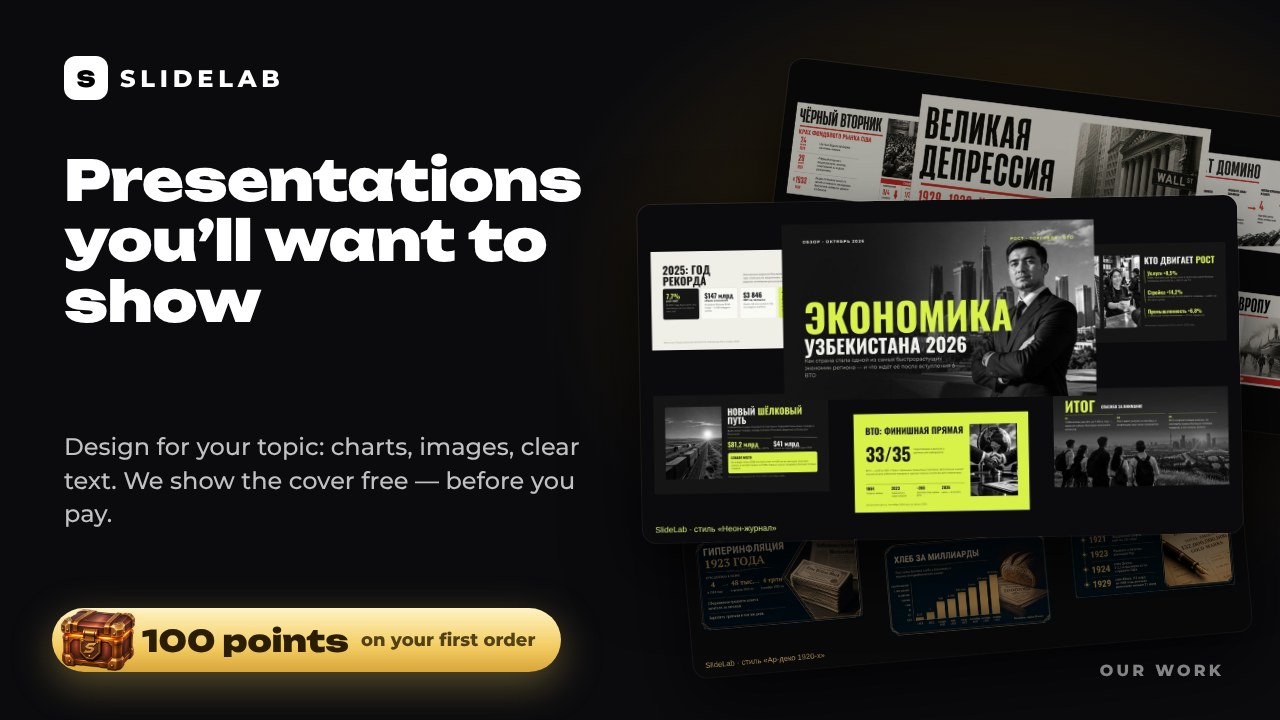
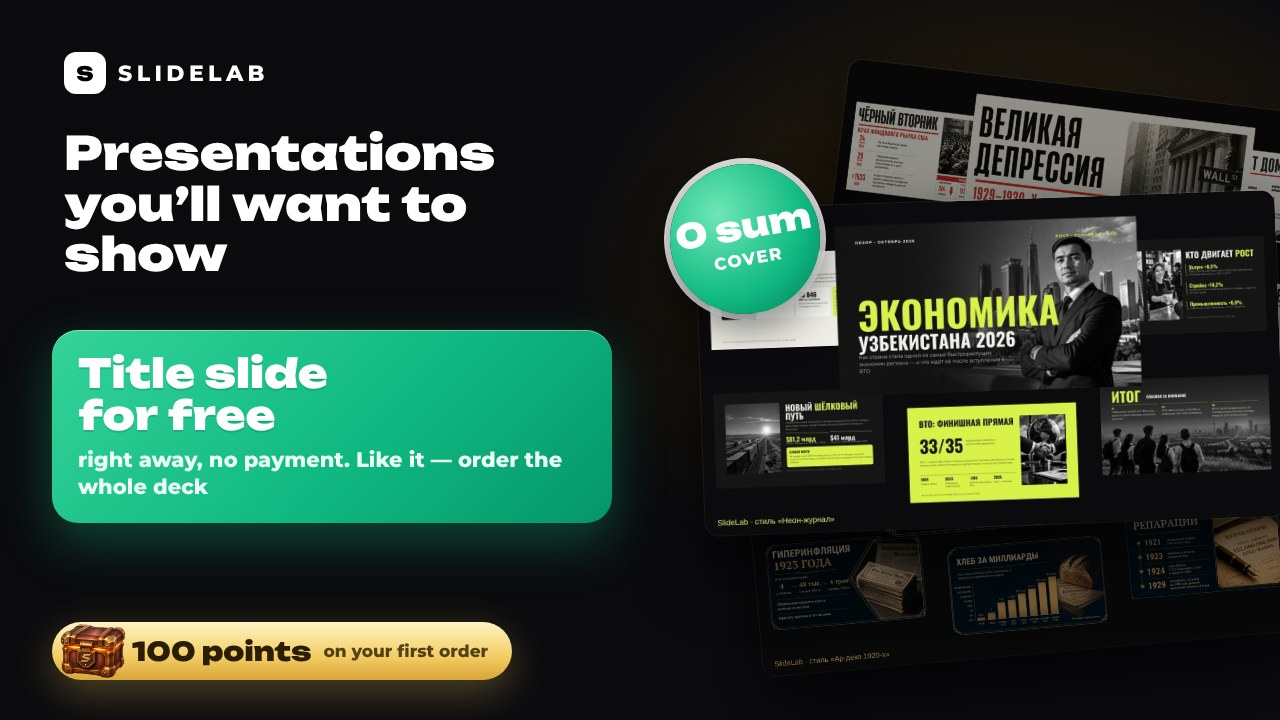
Приглашение: главное — бесплатный титульный слайд без оплаты
- карточка: крупный блок «Титульный слайд бесплатно — сразу и без оплаты» и наклейка «0 сум · обложка»
- подпись: первым пунктом бесплатный титульный слайд, затем цена и кейс-подарок

Claude-Session: https://claude.ai/code/session_01XiGaY2qDxw4V5KPgXudHjw

diff --git a/webapp/src/lib/i18n.ts b/webapp/src/lib/i18n.ts
@@ -343,7 +343,7 @@ const ru = {
   ref_ms_coupon: "{n} · презентация",
   ref_next_coupon: "До бесплатной презентации осталось друзей: {n}",
   ref_in_chat: "Карточка-приглашение в чате с ботом — перешлите её другу",
-  ref_share_text: "Заказываю презентации в SlideLab — дизайн под тему, обложку показывают бесплатно до оплаты. По моей ссылке тебе {n} баллов к первому заказу 🎁",
+  ref_share_text: "SlideLab делает презентации под твою тему — титульный слайд бесплатно и без оплаты. По моей ссылке тебе {n} баллов и кейс-подарок 🎁",
   ref_goals: "Бонусы за друзей",
   ref_next: "До бонуса +{pts} баллов осталось друзей: {n}",
   ref_all_goals: "Все бонусы собраны — дальше по +100 баллов за каждого друга",
@@ -796,7 +796,7 @@ const uz: Dict = {
   ref_ms_coupon: "{n} · taqdimot",
   ref_next_coupon: "Bepul taqdimotgacha qolgan do‘stlar: {n}",
   ref_in_chat: "Taklif kartasi bot chatida — uni do‘stingizga yuboring",
-  ref_share_text: "SlideLab’da taqdimot qildiraman — havolam orqali birinchi xaridga {n} ball, keysga yetadi 🎁",
+  ref_share_text: "SlideLab mavzuingizga mos taqdimot qiladi — titul slayd bepul va to‘lovsiz. Havolam orqali {n} ball va sovg‘a-keys 🎁",
   ref_goals: "Do‘stlar uchun bonuslar",
   ref_next: "+{pts} ball bonusigacha qolgan do‘stlar: {n}",
   ref_all_goals: "Barcha bonuslar olindi — har bir do‘st uchun +100",
@@ -1246,7 +1246,7 @@ const en: Dict = {
   ref_ms_coupon: "{n} · presentation",
   ref_next_coupon: "Friends left until a free presentation: {n}",
   ref_in_chat: "The invite card is in your chat with the bot — forward it to a friend",
-  ref_share_text: "I get my presentations at SlideLab — with my link you get {n} points on your first purchase, enough for a case 🎁",
+  ref_share_text: "SlideLab makes presentations for your topic — the title slide is free, no payment. With my link you get {n} points and a gift case 🎁",
   ref_goals: "Friend bonuses",
   ref_next: "Friends left until the +{pts} bonus: {n}",
   ref_all_goals: "All bonuses collected — +100 for every new friend",

diff --git a/src/slidelab/core/i18n/ru.py b/src/slidelab/core/i18n/ru.py
@@ -69,7 +69,7 @@ TEXTS: dict[str, str] = {
     "gift_err_revoked": "Этот подарок отменили.",
     "gift_err_self": "Это ваш подарок 🙂 Отправьте ссылку другу — пусть он откроет её.",
     "gift_err_missing": "Подарок не найден — проверьте ссылку.",
-    "invite_card": "🎁 <b>{name} дарит тебе {n} баллов в SlideLab</b>\n\nДелаем презентации под твою тему — с графиками, картинками и понятным текстом, а не шаблон.\nОбложку покажем бесплатно: платишь, только если понравился стиль. Первая презентация — от {price} сум.\n\nБаллы за первый заказ сразу открывают кейс: внутри скидки и бесплатные презентации.",
+    "invite_card": "🎁 <b>{name} дарит тебе {n} баллов в SlideLab</b>\n\n✅ <b>Титульный слайд — бесплатно</b>, сразу и без оплаты: пришли тему и посмотри стиль\n✅ Понравится — закажешь всю презентацию, первая от {price} сум\n✅ Дизайн под твою тему: графики, картинки, понятный текст — не шаблон\n\nА ещё тебя ждёт кейс-подарок: внутри может оказаться бесплатная презентация.",
     "invite_forward": "☝ Перешлите эту карточку другу или в чат группы. Когда друг оплатит первый заказ — вам +100 баллов.",
     "btn_claim_invite": "🎁 Забрать подарок",
     "btn_open_welcome": "🎁 Открыть подарок",

diff --git a/src/slidelab/core/i18n/uz.py b/src/slidelab/core/i18n/uz.py
@@ -64,7 +64,7 @@ TEXTS: dict[str, str] = {
     "gift_err_revoked": "Bu sovg‘a bekor qilingan.",
     "gift_err_self": "Bu sizning sovg‘angiz 🙂 Havolani do‘stingizga yuboring.",
     "gift_err_missing": "Sovg‘a topilmadi — havolani tekshiring.",
-    "invite_card": "🎁 <b>{name} sizga SlideLab’da {n} ball sovg‘a qiladi</b>\n\nMavzuingizga mos taqdimotlar — grafiklar, rasmlar va tushunarli matn bilan, shablon emas.\nMuqovani bepul ko‘rsatamiz: uslub yoqsagina to‘laysiz. Birinchi taqdimot — {price} so‘mdan.\n\nBirinchi buyurtma ballari darhol keysni ochadi: ichida chegirmalar va bepul taqdimotlar.",
+    "invite_card": "🎁 <b>{name} sizga SlideLab’da {n} ball sovg‘a qiladi</b>\n\n✅ <b>Titul slayd — bepul</b>, darhol va to‘lovsiz: mavzuni yuboring va uslubni ko‘ring\n✅ Yoqsa — butun taqdimotni buyurtma qilasiz, birinchisi {price} so‘mdan\n✅ Mavzuingizga mos dizayn: grafiklar, rasmlar, tushunarli matn — shablon emas\n\nYana sizni sovg‘a-keys kutmoqda: ichida bepul taqdimot bo‘lishi mumkin.",
     "invite_forward": "☝ Bu kartani do‘stingizga yoki guruh chatiga yuboring. Do‘stingiz birinchi buyurtmani to‘laganda — sizga +100 ball.",
     "btn_claim_invite": "🎁 Sovg‘ani olish",
     "btn_open_welcome": "🎁 Sovg‘ani ochish",

diff --git a/src/slidelab/core/i18n/en.py b/src/slidelab/core/i18n/en.py
@@ -64,7 +64,7 @@ TEXTS: dict[str, str] = {
     "gift_err_revoked": "This gift was cancelled.",
     "gift_err_self": "This is your own gift 🙂 Send the link to a friend.",
     "gift_err_missing": "Gift not found — check the link.",
-    "invite_card": "🎁 <b>{name} gives you {n} points at SlideLab</b>\n\nWe make presentations for your topic — with charts, images and clear text, not a template.\nWe show the cover for free: you pay only if you like the style. First presentation — from {price} sum.\n\nPoints for your first order open a case right away: discounts and free presentations inside.",
+    "invite_card": "🎁 <b>{name} gives you {n} points at SlideLab</b>\n\n✅ <b>Title slide for free</b>, right away and without payment: send your topic and see the style\n✅ Like it — order the whole deck, the first one from {price} sum\n✅ Design for your topic: charts, images, clear text — not a template\n\nPlus a gift case is waiting: it may hold a free presentation.",
     "invite_forward": "☝ Forward this card to a friend or your group chat. When your friend pays for their first order, you get +100 points.",
     "btn_claim_invite": "🎁 Get the gift",
     "btn_open_welcome": "🎁 Open the gift",
